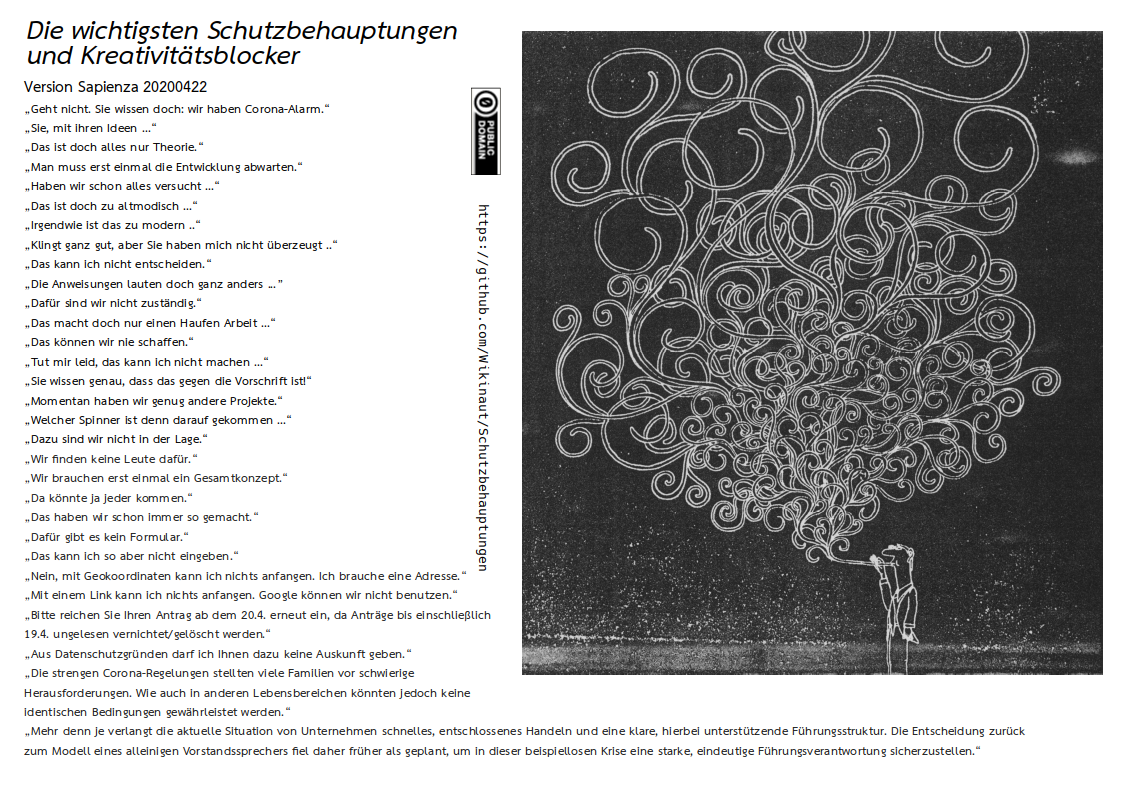
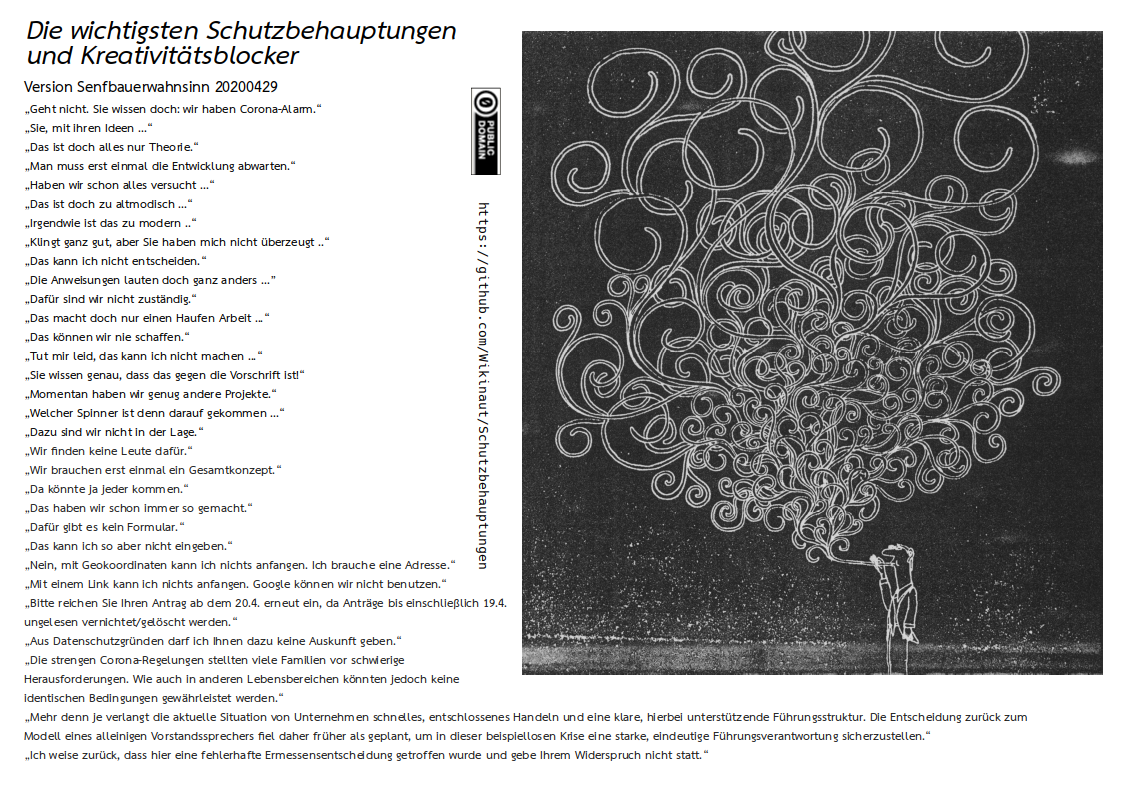
Version Senfbauerwahnsinn 20200429

Changed region(s): [[0.0, 0.0302, 0.9038, 0.9673], [0.374, 0.0302, 0.4052, 0.0605]]

diff --git a/README.md b/README.md
@@ -18,7 +18,7 @@ Fehlt etwas? Bitte pull-request machen! Das ist nicht Teil der Liste...
 
 ```
 Die wichtigsten Schutzbehauptungen und Kreativitätsblocker
-Version Corona 20200410
+Version Senfbauerwahnsinn 20200429
 
 „Geht nicht. Sie wissen doch: wir haben Corona-Alarm.“
 „Sie, mit ihren Ideen ...“
@@ -50,4 +50,5 @@ Version Corona 20200410
 „Aus Datenschutzgründen darf ich Ihnen dazu keine Auskunft geben.“
 „Die strengen Corona-Regelungen stellten viele Familien vor schwierige Herausforderungen. Wie auch in anderen Lebensbereichen könnten jedoch keine identischen Bedingungen gewährleistet werden.“
 „Mehr denn je verlangt die aktuelle Situation von Unternehmen schnelles, entschlossenes Handeln und eine klare, hierbei unterstützende Führungsstruktur. Die Entscheidung zurück zum Modell eines alleinigen Vorstandssprechers fiel daher früher als geplant, um in dieser beispiellosen Krise eine starke, eindeutige Führungsverantwortung sicherzustellen.“
+„Ich weise zurück, dass hier eine fehlerhafte Ermessensentscheidung getroffen wurde und gebe Ihrem Widerspruch nicht statt.“
 ```
